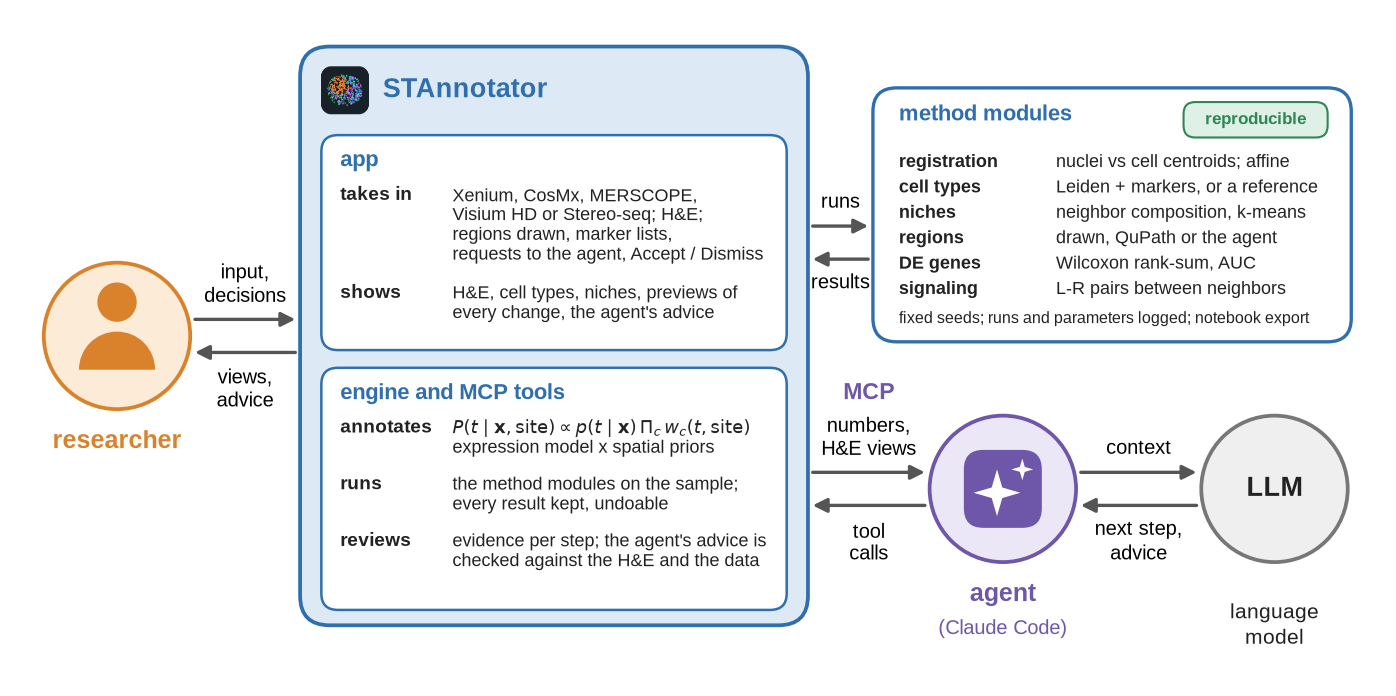
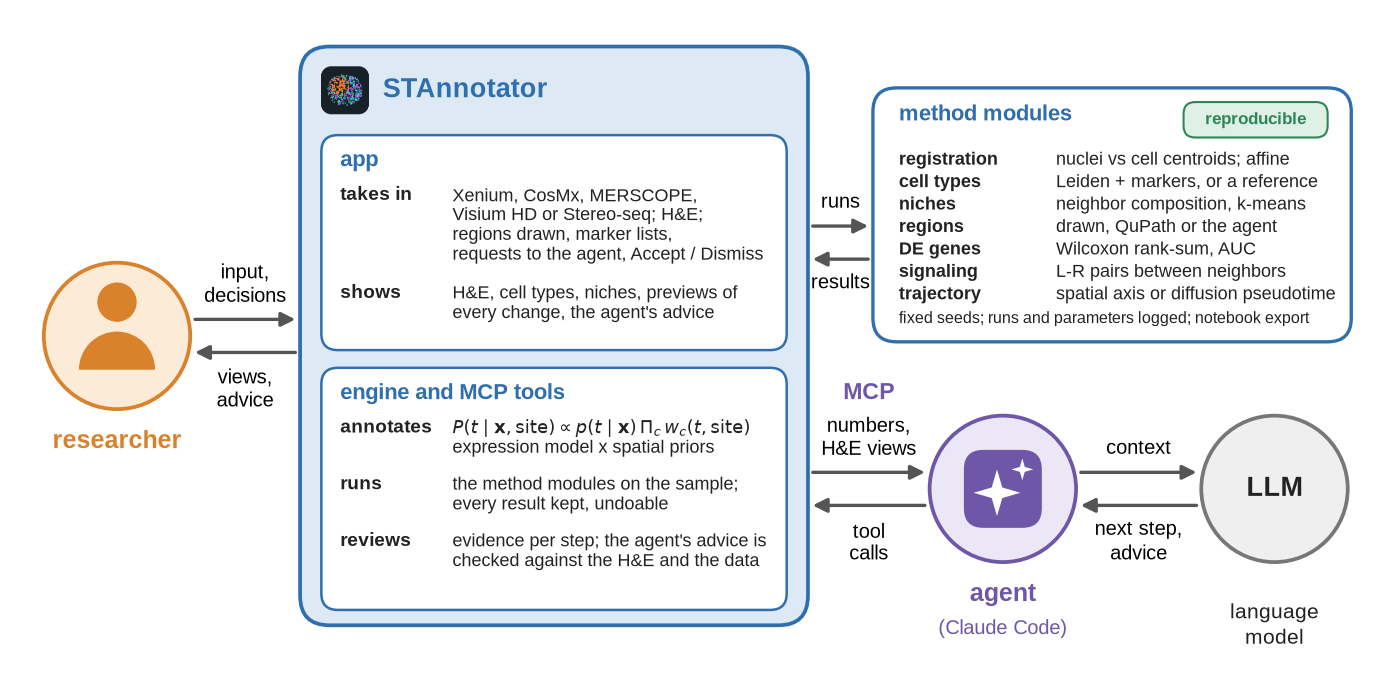
README overview diagram (Fig. 1b): the method modules list trajectory (spatial axis or diffusion pseudotime)

Changed region(s): [[0.7393, 0.2112, 0.9549, 0.4526], [0.6468, 0.2112, 0.7085, 0.4526]]

diff --git a/README.md b/README.md
@@ -15,7 +15,7 @@ and cell types to regions, niches, cell-cell communication and comparisons acros
 side.
 
 <p align="center">
-  <img src="docs/assets/overview.png" width="900" alt="How STAnnotator works: the researcher gives input and decisions to the app and sees views and advice; the app's engine runs the method modules (registration, cell types, niches, regions, DE genes, signaling) and offers them as MCP tools to the agent (Claude Code), which calls the tools, reads numbers and H&E views, and asks the language model for the next step and advice">
+  <img src="docs/assets/overview.png" width="900" alt="How STAnnotator works: the researcher gives input and decisions to the app and sees views and advice; the app's engine runs the method modules (registration, cell types, niches, regions, DE genes, signaling, trajectory) and offers them as MCP tools to the agent (Claude Code), which calls the tools, reads numbers and H&E views, and asks the language model for the next step and advice">
 </p>
 
 - **Annotate** from a marker gene list, a labeled single-cell reference, or an existing annotation.
